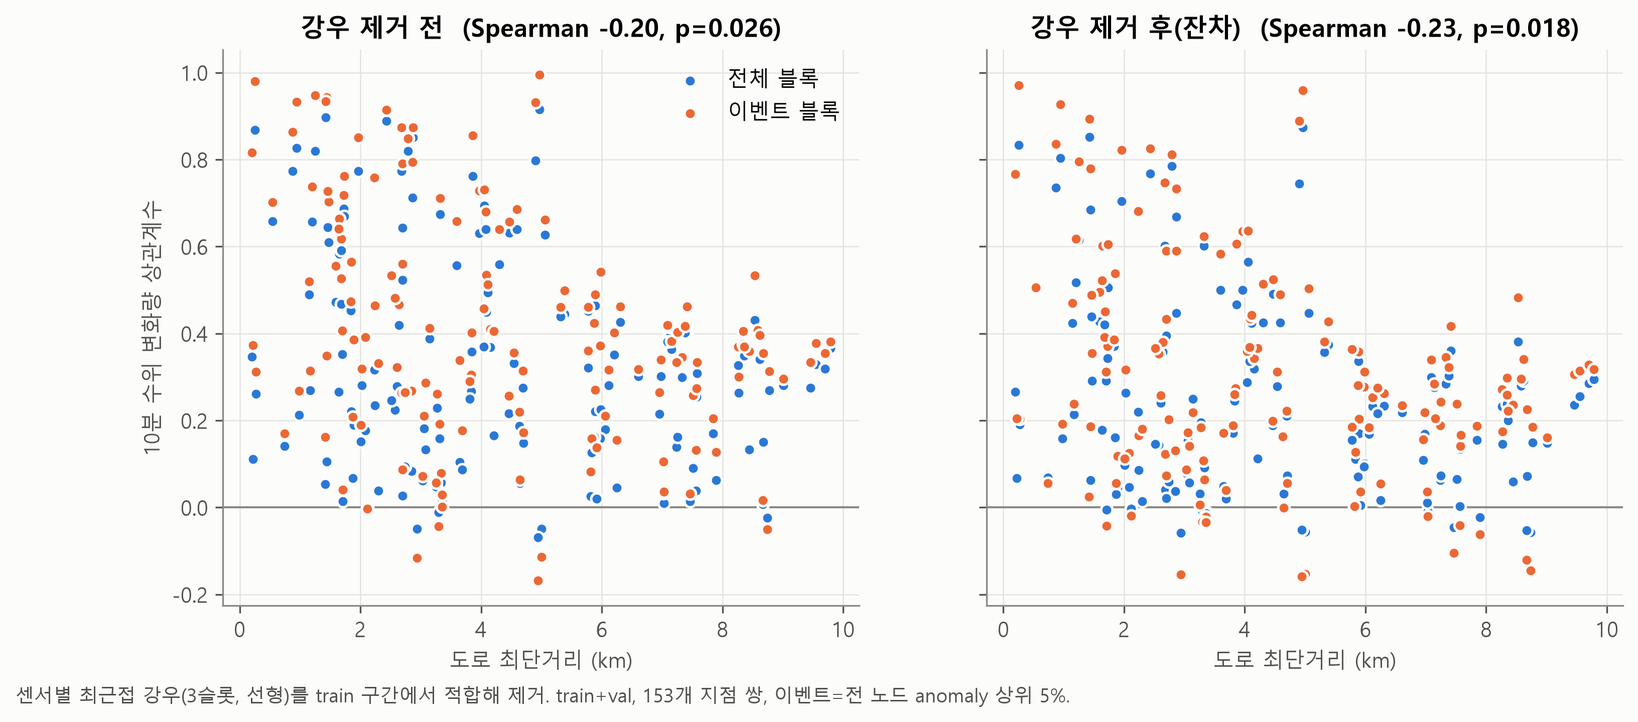
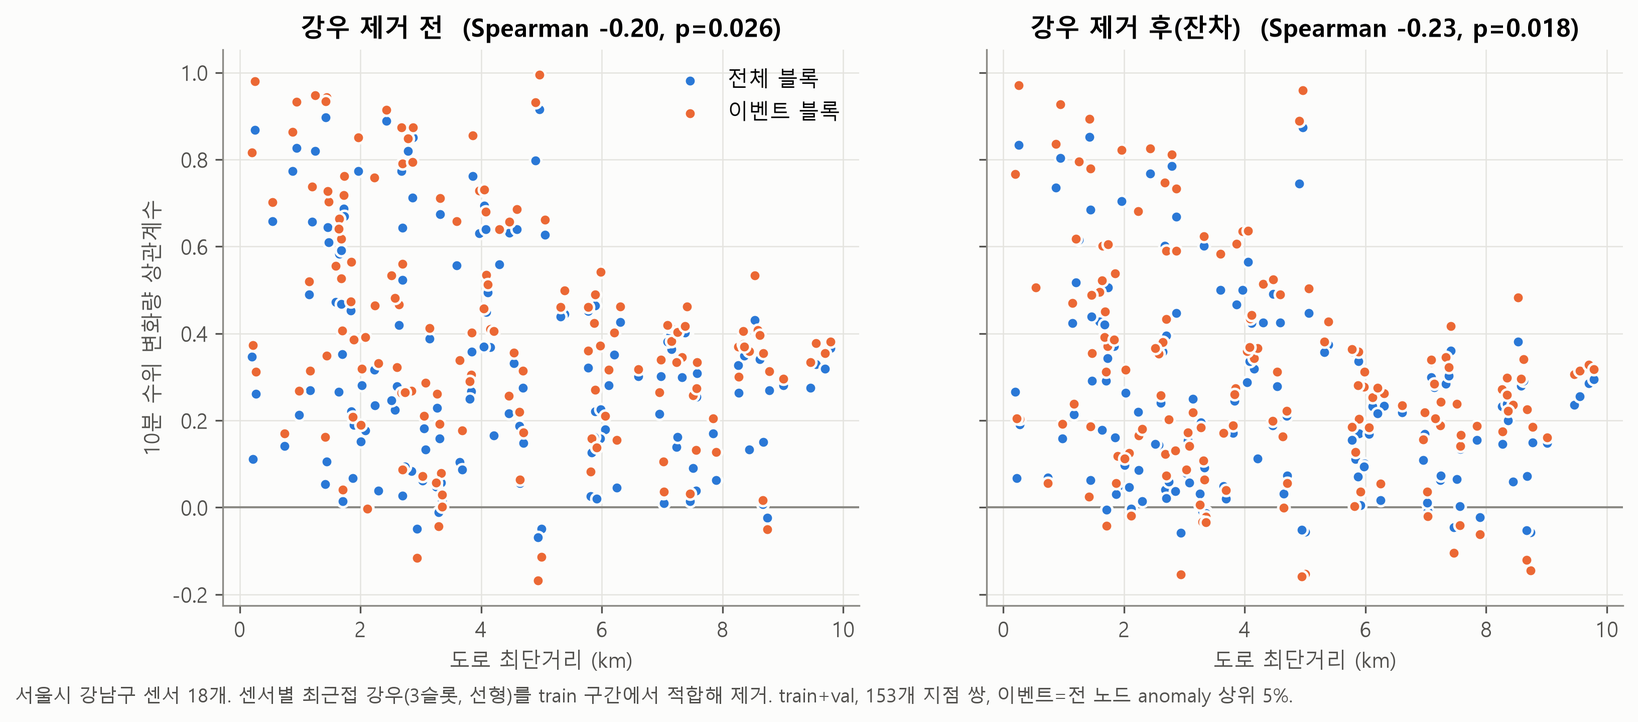
docs: T2 민감도, 범위 표기 정정, 23-0014/0021 사례 그림
- t2_loso_sensitivity: 23-0014 제외, 큰 사건 5·8 제외 민감도(사후, 판정 변경 없음).
  IDW 점추정 최저와 (3) 최고는 유지, 큰 사건 제외 시 IDW 대비 차이는 구분 불가
- fig10: 23-0014/23-0021과 각 최근접 이웃의 이벤트 구간 시계열, 지도상 위치·거리
- README/docs/그림 캡션에 "서울시 강남구 센서 18개" 범위 표기
- docs/08에 민감도 단락과 사례 그림 설명 추가

Changed region(s): [[0.0, 0.9479, 0.7812, 0.9785]]

diff --git a/src/analysis/t2_case_figure.py b/src/analysis/t2_case_figure.py
@@ -1,0 +1,160 @@
+"""사례 그림: 23-0014는 가장 가까운 이웃(23-0015)이 아니라 먼 23-0021과 함께 움직인다 (서울시 강남구 센서 18개 중 4개).
+
+실행: python -m src.analysis.t2_case_figure
+출력: outputs/figures/fig10_t2_case_0014_0021.png
+
+구성: 왼쪽 지도(센서 위치, 도로, 거리·변화량 상관), 오른쪽 이벤트 5(07-16~17)와 이벤트 8(08-13~14)의 시계열(강우 + 4개 센서).
+시계열은 10분 평균 수위를 센서별 훈련 중앙값 기준 상승분으로 바꾼 뒤 이벤트 구간(시작~끝+3시간) 안에서 최소 0, 최대 1로 정규화한 것이다.
+크기 비교가 아니라 오르내리는 시점·모양 비교용이며, 첨두 상승(m)은 범례에 표기한다. train+val 구간만 사용(test 미사용).
+"""
+import matplotlib
+
+matplotlib.use("Agg")
+import matplotlib.pyplot as plt  # noqa: E402
+import numpy as np  # noqa: E402
+import pandas as pd  # noqa: E402
+from matplotlib.collections import LineCollection  # noqa: E402
+
+from src.analysis.spatial_signal import OUT_PAIR, PAIR_CSV  # noqa: E402
+from src.data.assign_rain_gauges import node_blocks  # noqa: E402
+from src.data.clean_nodes import PROCESSED  # noqa: E402
+from src.data.prepare_rainfall import OUT_EVENTS, OUT_NPZ as RAIN_NPZ, TRAIN_END, VAL_END  # noqa: E402
+from src.data.prepare_station_timeseries import OUT_NPZ as SEWER_NPZ  # noqa: E402
+
+TARGETS = {"23-0014": "s2", "23-0021": "s1"}
+NEIGHBORS = {"23-0014": "23-0015", "23-0021": "23-0019"}     # 각 센서의 도로거리 최근접 이웃
+STYLE = {"23-0014": ("s2", "-"), "23-0015": ("s3", "--"), "23-0021": ("s1", "-"), "23-0019": ("s5", "--")}
+EVENTS = [(5, "이벤트 5: 07-16~17 (154.8 mm)"), (8, "이벤트 8: 08-13~14 (115.0 mm)")]
+AFTER_H = 3
+
+
+def normalize_window(x: np.ndarray) -> np.ndarray:
+    """창 안 최소를 0, 최대를 1로. 상수 구간이면 0."""
+    lo, hi = np.nanmin(x), np.nanmax(x)
+    return (x - lo) / (hi - lo) if hi > lo else np.zeros_like(x)
+
+
+def pair_stats() -> dict:
+    pw = pd.read_csv(PAIR_CSV)
+    pc = pd.read_csv(OUT_PAIR)[["node_a", "node_b", "corr_diff_all"]]
+    m = pw.merge(pc, on=["node_a", "node_b"])
+    out = {}
+    for a, b in [("23-0014", "23-0015"), ("23-0014", "23-0021"), ("23-0021", "23-0019")]:
+        r = m[((m.node_a == a) & (m.node_b == b)) | ((m.node_a == b) & (m.node_b == a))].iloc[0]
+        out[(a, b)] = dict(road=float(r.road_dist_m), straight=float(r.straight_dist_m), corr=float(r.corr_diff_all))
+    return out
+
+
+def load_series():
+    z = np.load(SEWER_NPZ, allow_pickle=True)
+    nodes = [str(x) for x in z["node_ids"]]
+    blk = node_blocks(z["values"][:VAL_END], z["mask"][:VAL_END])
+    bt = pd.DatetimeIndex(z["times"][:VAL_END])[: len(blk) * 10][9::10]
+    anom = blk - np.nanmedian(blk[:TRAIN_END // 10], axis=0)
+    zr = np.load(RAIN_NPZ, allow_pickle=True)
+    gn = [i for i, u in enumerate(zr["gauge_gu"]) if u == "강남구"]
+    with np.errstate(all="ignore"):
+        mean_gn = np.nanmean(zr["values"][:, gn], axis=1)
+    rain = pd.Series(mean_gn, index=pd.DatetimeIndex(zr["times"])).reindex(bt)
+    return nodes, anom, bt, rain
+
+
+def draw_map(ax, C, stats):
+    nodes = pd.read_csv(PROCESSED / "gangnam_station_graph_nodes.csv").set_index("node_id")
+    rn = pd.read_csv(PROCESSED / "gangnam_road_nodes.csv").set_index("osmid")
+    ed = pd.read_csv(PROCESSED / "gangnam_road_edges.csv", usecols=["u", "v"])
+    ed = ed[ed.u.isin(rn.index) & ed.v.isin(rn.index)]
+    segs = np.stack([np.stack([rn.loc[ed.u, "x"].to_numpy(), rn.loc[ed.u, "y"].to_numpy()], axis=1),
+                     np.stack([rn.loc[ed.v, "x"].to_numpy(), rn.loc[ed.v, "y"].to_numpy()], axis=1)], axis=1)
+    ax.add_collection(LineCollection(segs, colors="#d6d5d0", linewidths=0.5, zorder=1))
+    hi = list(STYLE)
+    for n, r in nodes.iterrows():
+        if n not in hi:
+            ax.scatter(r.lon, r.lat, s=26, color=C["muted"], edgecolor=C["surface"], linewidth=1, zorder=3)
+            ax.annotate(n[-4:], (r.lon, r.lat), xytext=(4, 3), textcoords="offset points", fontsize=7, color=C["muted"], zorder=3)
+    span_x = nodes.loc[hi, "lon"].max() - nodes.loc[hi, "lon"].min()
+    for a, b in stats:
+        ax.plot([nodes.loc[a, "lon"], nodes.loc[b, "lon"]], [nodes.loc[a, "lat"], nodes.loc[b, "lat"]], color=C["ink2"], lw=1.1,
+                linestyle=(0, (4, 3)), zorder=4)
+        mx, my = (nodes.loc[a, "lon"] + nodes.loc[b, "lon"]) / 2, (nodes.loc[a, "lat"] + nodes.loc[b, "lat"]) / 2
+        s_ = stats[(a, b)]
+        short = s_["straight"] < 300
+        text = (f"{s_['road'] / 1000:.2f} km (직선 {s_['straight'] / 1000:.2f})\n변화량 상관 {s_['corr']:.2f}" if s_["road"] > 1000
+                else f"{s_['road']:.0f} m\n상관 {s_['corr']:.2f}")
+        kw = dict(arrowprops=dict(arrowstyle="-", color=C["muted"], lw=0.8), xytext=(mx + 0.30 * span_x, my), textcoords="data") if short else {}
+        ax.annotate(text, (mx, my), fontsize=9, color=C["ink"], ha="left" if short else "center", va="center", zorder=7,
+                    bbox=dict(boxstyle="round,pad=0.25", fc=C["surface"], ec=C["muted"], lw=0.6), **kw)
+    label_off = {"23-0014": (-8, 7), "23-0015": (-8, -14), "23-0021": (8, -14), "23-0019": (8, 8)}
+    for n, (slot, ls) in STYLE.items():
+        r = nodes.loc[n]
+        ax.scatter(r.lon, r.lat, s=140, color=C[slot], edgecolor=C["surface"], linewidth=2, zorder=6,
+                   marker="o" if n in TARGETS else "s")
+        dx, dy = label_off[n]
+        ax.annotate(n, (r.lon, r.lat), xytext=(dx, dy), textcoords="offset points", fontsize=10, fontweight="bold", color=C["ink"], zorder=8,
+                    ha="right" if dx < 0 else "left", bbox=dict(boxstyle="round,pad=0.15", fc=C["surface"], ec="none", alpha=0.85))
+    pts = nodes.loc[hi]
+    px, py = (pts.lon.max() - pts.lon.min()) * 0.22, (pts.lat.max() - pts.lat.min()) * 0.22
+    ax.set_xlim(pts.lon.min() - px, pts.lon.max() + px)
+    ax.set_ylim(pts.lat.min() - py, pts.lat.max() + py)
+    ax.set_aspect(1 / np.cos(np.radians(37.5)))
+    ax.set_xticks([])
+    ax.set_yticks([])
+    ax.grid(False)
+    ax.set_title("센서 위치와 도로거리", fontsize=11)
+    for sp in ax.spines.values():
+        sp.set_visible(True)
+        sp.set_color(C["muted"])
+
+
+def main() -> None:
+    from src.visualization.make_figures import C, _note, _save
+    stats = pair_stats()
+    nodes, anom, bt, rain = load_series()
+    ev = pd.read_csv(OUT_EVENTS, parse_dates=["start", "end"]).set_index("event_id")
+    fig = plt.figure(figsize=(15, 9.2))
+    gs = fig.add_gridspec(5, 2, width_ratios=[1.12, 1.7], height_ratios=[0.5, 2.0, 0.45, 0.5, 2.0], wspace=0.08, hspace=0.12)
+    draw_map(fig.add_subplot(gs[0:3, 0]), C, stats)
+    peaks = {n: [] for n in STYLE}
+    for k, (eid, title) in enumerate(EVENTS):
+        e = ev.loc[eid]
+        m = (bt >= e.start) & (bt <= e.end + pd.Timedelta(hours=AFTER_H))
+        t = bt[m]
+        r0 = 3 * k
+        ax_r = fig.add_subplot(gs[r0, 1])
+        ax_s = fig.add_subplot(gs[r0 + 1, 1], sharex=ax_r)
+        ax_r.bar(t, rain.to_numpy()[m], width=pd.Timedelta(minutes=9), color=C["muted"], zorder=3)
+        ax_r.set_ylabel("강우\n(mm/10분)", fontsize=8)
+        ax_r.set_title(title, fontsize=11, loc="left")
+        plt.setp(ax_r.get_xticklabels(), visible=False)
+        ax_r.grid(axis="x", visible=False)
+        for n, (slot, ls) in STYLE.items():
+            a_ = anom[m, nodes.index(n)]
+            peaks[n].append(float(np.nanmax(a_)))
+            ax_s.plot(t, normalize_window(a_), color=C[slot], linestyle=ls, lw=2.0, zorder=3 if n in TARGETS else 2)
+        ax_s.set_ylabel("정규화 상승분\n(구간 최소 0, 최대 1)", fontsize=8.5)
+        ax_s.set_ylim(-0.05, 1.08)
+        ax_s.xaxis.set_major_formatter(matplotlib.dates.DateFormatter("%m-%d\n%H시"))
+    ax_l = fig.add_subplot(gs[3:, 0])
+    ax_l.axis("off")
+    from matplotlib.lines import Line2D
+    handles = [Line2D([0], [0], color=C[STYLE[n][0]], linestyle=STYLE[n][1], lw=2.4) for n in STYLE]
+    role = {"23-0014": "대상(건천, 0 m 90%)", "23-0015": "23-0014의 최근접 이웃", "23-0021": "대상", "23-0019": "23-0021의 최근접 이웃"}
+    labels = [f"{n}  {role[n]}   첨두 상승 +{peaks[n][0]:.2f} m / +{peaks[n][1]:.2f} m" for n in STYLE]
+    ax_l.legend(handles, labels, loc="upper left", frameon=False, fontsize=9.5, title="센서 (첨두 상승: 이벤트 5 / 이벤트 8)", title_fontsize=9.5,
+                alignment="left")
+    st = stats
+    lines = ["쌍별 거리와 변화량 상관(5분 변화량, train+val)"]
+    for (a, b), v in st.items():
+        lines.append(f"  {a} ~ {b}: 도로 {v['road']:,.0f} m, 직선 {v['straight']:,.0f} m, 상관 {v['corr']:.2f}")
+    ax_l.text(0.0, 0.34, "\n".join(lines), fontsize=9.5, color=C["ink2"], va="top", ha="left", linespacing=1.6)
+    fig.suptitle("23-0014의 변동은 가장 가까운 이웃(23-0015, 200 m)보다 더 먼 23-0021(직선 1.4 km)과 더 잘 맞는다 (상관 0.83 대 0.22)",
+                 fontsize=13.5, fontweight="bold", y=0.985)
+    _note(fig, "서울시 강남구 센서 18개 중 4개(도로거리 최근접 이웃은 점선: 23-0015, 23-0019). 거리는 도로 최단경로, 지도의 점선은 직선 연결. 강우는 강남구 3개소 평균.\n"
+               "시계열은 10분 평균 수위를 센서별 훈련 중앙값 기준 상승분으로 바꾼 뒤 이벤트 구간(시작~끝+3시간)에서 0~1로 정규화했다(크기가 아니라 시점·모양 비교).\n"
+               "정규화한 모양만 보면 이벤트 8에서는 23-0015도 같은 시점에 첨두가 있고, 차이는 평상시 기저 수위와 변화량 상관에서 크다. 사례 하나이며 인과가 아니다.", y=-0.045)
+    p = _save(fig, "fig10_t2_case_0014_0021.png")
+    print(p)
+
+
+if __name__ == "__main__":
+    main()

diff --git a/src/analysis/t2_loso_sensitivity.py b/src/analysis/t2_loso_sensitivity.py
@@ -1,0 +1,91 @@
+"""T2 LOSO 민감도 (사후 분석, 판정 변경 없음): 23-0014 제외, 큰 사건(5, 8) 제외, 둘 다 제외.
+
+실행: python -m src.analysis.t2_loso_sensitivity   (t2_loso 예측 npz 필요)
+출력: data/processed/gangnam_t2_loso_sensitivity_report.txt
+
+각 시나리오에서 모델별 이벤트 MAE(센서 평균) 점추정과 95% CI, IDW 대비 (4)-(2), (5)-(2) 차이 CI(이벤트 복원추출 2000회, 시드 0),
+모델 순위를 낸다. 사전 판정(10/18 통과)은 바꾸지 않는다. 서울시 강남구 센서 18개(또는 제외 후 17개) 기준이며 타깃 기저선·규모를 안다는
+가정 하의 상대 상승폭 추정이다.
+"""
+import numpy as np
+import pandas as pd
+
+from src.analysis.t2_loso import MODELS, OUT_PRED
+from src.analysis.t2_loso_bootstrap import SHORT, bootstrap, ci, event_error_sums, macro_mae, pass_count
+from src.data.clean_nodes import PROCESSED
+from src.data.prepare_rainfall import OUT_EVENTS
+
+REPORT = PROCESSED / "gangnam_t2_loso_sensitivity_report.txt"
+DROP_SENSOR = "23-0014"
+DROP_EVENTS = (5, 8)
+SHOW = ["mean_others", "idw_p1", "ridge_rain_time", "ridge_rain_time_nbr", "hgb_rain_time_nbr", "hgb_rain_time"]
+
+
+def subset(S, N, ev_ids, nodes, drop_sensor=None, drop_events=()):
+    ev_keep = [i for i, e in enumerate(ev_ids) if e not in drop_events]
+    sen_keep = [j for j, n in enumerate(nodes) if n != drop_sensor]
+    return S[np.ix_(ev_keep, sen_keep)], N[np.ix_(ev_keep, sen_keep)], [ev_ids[i] for i in ev_keep], [nodes[j] for j in sen_keep]
+
+
+def run_scenario(S, N):
+    k = {m: i for i, m in enumerate(MODELS)}
+    point_macro, point_sensor = macro_mae(S, N, np.ones((1, S.shape[0])))
+    point = point_macro[0]
+    boot_macro, boot_sensor = bootstrap(S, N)
+    cis = {m: ci(boot_macro[:, k[m]]) for m in MODELS}
+    d4 = ci(boot_macro[:, k["ridge_rain_time_nbr"]] - boot_macro[:, k["idw_p1"]])
+    d5 = ci(boot_macro[:, k["hgb_rain_time_nbr"]] - boot_macro[:, k["idw_p1"]])
+    rank = sorted(SHOW[:5], key=lambda m: point[k[m]])
+    return dict(point=point, cis=cis, d4=d4, d5=d5, rank=rank, pass_point=int(pass_count(point_sensor)[0]),
+                pass_ci=(int(np.percentile(pass_count(boot_sensor), 2.5)), int(np.percentile(pass_count(boot_sensor), 97.5))),
+                k=k, d4_point=point[k["ridge_rain_time_nbr"]] - point[k["idw_p1"]], d5_point=point[k["hgb_rain_time_nbr"]] - point[k["idw_p1"]])
+
+
+def verdict_text(lo, hi):
+    return "구분 불가(CI가 0 포함)" if lo <= 0 <= hi else ("IDW가 낮음" if lo > 0 else "(4)/(5)가 낮음")
+
+
+def main() -> None:
+    z = np.load(OUT_PRED, allow_pickle=True)
+    bt = pd.DatetimeIndex(z["bt"])
+    pred = {m: z[f"pred_{m}"].astype(float) for m in MODELS}
+    nodes = [str(x) for x in z["nodes"]]
+    S, N, ev_ids = event_error_sums(pred, z["actual_m"].astype(float), bt, pd.read_csv(OUT_EVENTS, parse_dates=["start", "end"]))
+    scen = {
+        "기준(전체 18개 센서, 이벤트 8개)": subset(S, N, ev_ids, nodes),
+        f"{DROP_SENSOR} 제외(센서 17개, 이벤트 8개)": subset(S, N, ev_ids, nodes, drop_sensor=DROP_SENSOR),
+        f"큰 사건 {DROP_EVENTS[0]}, {DROP_EVENTS[1]} 제외(센서 18개, 이벤트 6개)": subset(S, N, ev_ids, nodes, drop_events=DROP_EVENTS),
+        f"둘 다 제외(센서 17개, 이벤트 6개)": subset(S, N, ev_ids, nodes, drop_sensor=DROP_SENSOR, drop_events=DROP_EVENTS),
+    }
+    res = {name: run_scenario(s[0], s[1]) for name, s in scen.items()}
+
+    L = []
+    w = L.append
+    w("[서울시 강남구 센서 18개] T2 LOSO 민감도 (사후 분석, 판정 변경 없음, test 구간 미사용)")
+    w("=" * 78)
+    w("※ 타깃 기저선·규모 기지 가정 하의 상대 상승폭 추정이다(절대수위 추정 아님). 사전 판정(10/18 통과)은 바꾸지 않는다.")
+    w("이벤트 복원추출 2000회(시드 0), 통계 = 센서 평균 이벤트 MAE(m), 95% CI.")
+    for name, r in res.items():
+        S_, N_, ev_, nd_ = scen[name]
+        w("")
+        w(f"[{name}] 이벤트 {ev_}, 센서 {len(nd_)}개")
+        for m in SHOW:
+            lo, hi = r["cis"][m]
+            w(f"  {SHORT[m]:22s} {r['point'][r['k'][m]]:.4f}  [{lo:.4f}, {hi:.4f}]")
+        w(f"  순위(낮은 오차 순, (1)~(5)): " + " < ".join(SHORT[m][:3] for m in r["rank"]))
+        w(f"  (4)-(2): {r['d4_point']:+.4f} [{r['d4'][0]:+.4f}, {r['d4'][1]:+.4f}] → {verdict_text(*r['d4'])}")
+        w(f"  (5)-(2): {r['d5_point']:+.4f} [{r['d5'][0]:+.4f}, {r['d5'][1]:+.4f}] → {verdict_text(*r['d5'])}")
+        w(f"  사전 기준 통과 센서 수(점추정, 참고): {r['pass_point']}개 / {len(nd_)}개 (부트스트랩 95% 구간 {r['pass_ci']})")
+    base_rank = res[next(iter(res))]["rank"]
+    w("")
+    w("순위 유지 여부 (기준 순위와 비교, (1)~(5) 5개 모델)")
+    for name, r in res.items():
+        w(f"  {name}: {'기준과 같음' if r['rank'] == base_rank else '기준과 다름'}  [{' < '.join(SHORT[m][:3] for m in r['rank'])}]")
+    w("")
+    w("주의: 사후 분석이다. 이벤트 6~8개의 부트스트랩이라 분포가 이산적이고 CI가 넓다. 제외는 결과를 본 뒤의 선택이므로 판정에 쓰지 않는다.")
+    REPORT.write_text("\n".join(L) + "\n", encoding="utf-8")
+    print("\n".join(L))
+
+
+if __name__ == "__main__":
+    main()

diff --git a/tests/test_t2_case_figure.py b/tests/test_t2_case_figure.py
@@ -1,0 +1,27 @@
+"""실행: python -m tests.test_t2_case_figure  (pytest로도 실행 가능). 실제 데이터 파일 불필요."""
+import numpy as np
+
+from src.analysis.t2_case_figure import normalize_window
+from src.analysis.t2_loso_sensitivity import subset
+
+
+def test_normalize_window_maps_min_to_zero_and_max_to_one_and_handles_constant_and_nan():
+    x = np.array([2.0, 4.0, np.nan, 6.0])
+    z = normalize_window(x)
+    assert z[0] == 0.0 and z[3] == 1.0 and z[1] == 0.5 and np.isnan(z[2])
+    assert (normalize_window(np.array([3.0, 3.0, 3.0])) == 0.0).all()                # 상수 구간은 0으로 나누지 않는다
+
+
+def test_subset_drops_the_requested_sensor_and_events_only():
+    E, J, M = 4, 3, 2
+    S = np.arange(E * J * M, dtype=float).reshape(E, J, M)
+    N = np.ones((E, J))
+    S2, N2, ev2, nd2 = subset(S, N, [1, 5, 8, 9], ["a", "b", "c"], drop_sensor="b", drop_events=(5, 8))
+    assert S2.shape == (2, 2, M) and ev2 == [1, 9] and nd2 == ["a", "c"]
+    assert np.array_equal(S2[0, :, 0], S[0, [0, 2], 0]) and np.array_equal(S2[1, :, 1], S[3, [0, 2], 1])
+
+
+if __name__ == "__main__":
+    test_normalize_window_maps_min_to_zero_and_max_to_one_and_handles_constant_and_nan()
+    test_subset_drops_the_requested_sensor_and_events_only()
+    print("ok")

diff --git a/src/analysis/spatial_signal.py b/src/analysis/spatial_signal.py
@@ -216,7 +216,7 @@ def build_figures(dist, c_calm, c_event, macro, nodes):
     ax.set_ylabel("5분 수위 변화량 상관계수")
     ax.set_title("센서 간 변동 상관은 도로거리와 함께 줄어드는가")
     ax.legend(frameon=False, loc="upper right")
-    _note(fig, "5분 평균의 변화량 상관, train+val 구간, 153개 지점 쌍.", y=-0.03)
+    _note(fig, "서울시 강남구 센서 18개. 5분 평균의 변화량 상관, train+val 구간, 153개 지점 쌍.", y=-0.03)
     _save(fig, "fig5_distance_correlation.png")
 
     order = ["mean_others", "idw_p1", "idw_p2", "knn3", "ridge_all"]
@@ -234,7 +234,7 @@ def build_figures(dist, c_calm, c_event, macro, nodes):
         for k, v in enumerate(vals):
             ax.text(v + 0.01, k, f"{v:.2f}", va="center", fontsize=9, color=C["ink2"])
     axes[0].invert_yaxis()
-    _note(fig, "val 구간 leave-one-node-out, 노드 평균. 점선=사전 기준(10% 개선), 실선=상수 추정(노드 train 중앙값).", y=-0.03)
+    _note(fig, "서울시 강남구 센서 18개. val 구간 leave-one-node-out, 노드 평균. 점선=사전 기준(10% 개선), 실선=상수 추정(노드 train 중앙값).", y=-0.03)
     _save(fig, "fig6_loo_vs_constant.png")
 
 

diff --git a/src/analysis/t2_loso.py b/src/analysis/t2_loso.py
@@ -302,7 +302,7 @@ def make_figure(df: pd.DataFrame, v: dict):
     ax.set_title(f"이웃 센서를 쓰면 센서 없는 지점의 이벤트 오차가 줄어드는가: {v['n_or']}/{len(d)}개 센서가 10% 이상")
     ax.grid(axis="y", visible=False)
     ax.legend(frameon=False, loc="lower right")
-    _note(fig, "센서 1개를 통째로 제외(LOSO), 타깃 과거값 미사용. 시간순 5폴드 교차검증, train+val의 이벤트 8개. 점선=사전 기준 10%.\n"
+    _note(fig, "서울시 강남구 센서 18개. 센서 1개를 통째로 제외(LOSO), 타깃 과거값 미사용. 시간순 5폴드 교차검증, train+val의 이벤트 8개. 점선=사전 기준 10%.\n"
                "주의: 기준 (3)은 약한 기준선이다. 단순 이웃 평균(1)·IDW(2)도 (4)와 같은 수준이며 학습 모델이 이들보다 낫지는 않다(docs/08).", y=-0.045)
     _save(fig, "fig8_t2_loso_gain.png")
 

diff --git a/src/analysis/t2_loso_bootstrap.py b/src/analysis/t2_loso_bootstrap.py
@@ -116,7 +116,7 @@ def make_figure(point, cis, diffs):
     ax.set_title(t, fontsize=12.5)
     _note(fig, f"막대=점추정, 선=95% CI (평가 이벤트 8개를 2000회 복원추출). IDW 대비 차이 95% CI: (4) {d4[0] * 1000:+.1f}~{d4[1] * 1000:+.1f} mm, "
                f"(5) {d5[0] * 1000:+.1f}~{d5[1] * 1000:+.1f} mm.\n"
-               "센서 1개를 통째로 제외(LOSO), 타깃 과거값 미사용. 이력이 있던 센서의 기저선·규모를 안다는 가정 하의 상대 상승폭 추정이며 절대수위 추정이 아니다.", y=-0.05)
+               "서울시 강남구 센서 18개, 센서 1개를 통째로 제외(LOSO), 타깃 과거값 미사용. 이력이 있던 센서의 기저선·규모를 안다는 가정 하의 상대 상승폭 추정이며 절대수위 추정이 아니다.", y=-0.05)
     return _save(fig, "fig9_t2_loso_event_mae_ci.png")
 
 

diff --git a/src/analysis/spatial_signal_rain_adjusted.py b/src/analysis/spatial_signal_rain_adjusted.py
@@ -133,7 +133,7 @@ def main() -> None:
         ax.set_xlabel("도로 최단거리 (km)")
     axes[0].set_ylabel("10분 수위 변화량 상관계수")
     axes[0].legend(frameon=False, loc="upper right")
-    _note(fig, "센서별 최근접 강우(3슬롯, 선형)를 train 구간에서 적합해 제거. train+val, 153개 지점 쌍, 이벤트=전 노드 anomaly 상위 5%.", y=-0.03)
+    _note(fig, "서울시 강남구 센서 18개. 센서별 최근접 강우(3슬롯, 선형)를 train 구간에서 적합해 제거. train+val, 153개 지점 쌍, 이벤트=전 노드 anomaly 상위 5%.", y=-0.03)
     _save(fig, "fig7_rain_adjusted_correlation.png")
 
     L = []

diff --git a/docs/08_t2_loso_diagnosis.md b/docs/08_t2_loso_diagnosis.md
@@ -1,5 +1,7 @@
 # 08. T2 LOSO 진단: 일주기 제거 재진단과 센서 하나를 뺀 추정
 
+범위: **서울시 강남구 센서 18개**(2025-06-01~08-31).
+
 작성: 2026-10-18. **GNN 학습·GNN 준비 단계가 아니다.** 모든 분석은 train+val 구간만 사용했고 test 구간(2025-08-18~)은 읽지 않았다. 판정 규칙은 두 실험 모두 결과를 보기 전에 코드 docstring에 고정했다.
 
 - 0번: `python -m src.analysis.spatial_signal_profile_adjusted` → `gangnam_spatial_signal_profile_adjusted_report.txt`
@@ -7,6 +9,8 @@
 - 누수 방지 테스트: `python -m tests.test_t2_loso`
 - 이벤트 부트스트랩: `python -m src.analysis.t2_loso_bootstrap` → `gangnam_t2_loso_bootstrap_{ci.csv,report.txt}`, **`fig9_t2_loso_event_mae_ci.png`(발표용 메인 그림)**
 - 이웃이 해가 된 센서 정리: `python -m src.analysis.t2_harm_sensors` → `gangnam_t2_harm_sensors{.csv,_report.txt}`
+- 민감도(사후): `python -m src.analysis.t2_loso_sensitivity` → `gangnam_t2_loso_sensitivity_report.txt`
+- 사례 그림: `python -m src.analysis.t2_case_figure` → `fig10_t2_case_0014_0021.png`(23-0014와 23-0021)
 
 > **범위 명시: 현재 T2 검증은 타깃의 기저선·규모를 알고 있다는 가정 하의 상대 상승폭 추정이며, 절대수위 추정이 아니다.** 정답 'R = (수준 − 요일×시 평균 프로파일) / 규모'를 만들려면 타깃의 훈련 구간 데이터가 필요하다. 이는 정답을 정의하는 데만 쓰이고 모델 입력에는 없지만, 이력이 전혀 없는 지점(기저선도 모르는 지점)에는 이 검증이 적용되지 않는다. 이력 없는 지점의 절대수위를 추정하려면 기저선을 추정하는 단계가 따로 필요하며, 이는 아직 시도하지 않았다.
 
@@ -180,6 +184,10 @@
 - 사전 기준 통과 센서 수: 점추정 10개, 부트스트랩 중앙값 10개, **95% 구간 [8, 13], P(≥6개) = 100%.** 이벤트 표본 변동에도 "6개 이상"은 흔들리지 않는다.
 - 이벤트 하나씩 제외: event 1·2·7 제외 시 10개, event 3~6 제외 시 9개, event 8 제외 시 12개. 어느 이벤트를 빼도 6개를 크게 웃돈다.
 
+### 민감도 (사후 분석, 판정 변경 없음)
+
+**23-0014를 제외한 17개 센서**에서는 이벤트 MAE가 (1) 0.0268, (2) IDW 0.0252, (3) 0.0301, (4) 0.0266, (5) 0.0268이고 순위는 기준((2) < (4) < (1) < (5) < (3))과 같으며, IDW 대비 차이는 (4) +0.0014 [+0.0005, +0.0024], (5) +0.0016 [+0.0003, +0.0026]으로 CI가 0을 포함하지 않아 "IDW가 낮다"는 방향이 유지되고 오히려 조금 커진다. **큰 사건 5, 8을 제외한 이벤트 6개**에서는 오차 수준이 낮아지고((1) 0.0206, IDW 0.0201, (3) 0.0241, (4) 0.0212, (5) 0.0212) IDW가 가장 낮고 (3)이 가장 높은 것은 유지되지만, (1)이 (4)·(5)보다 낮아져 중간 순위가 바뀌고((2) < (1) < (4) < (5) < (3)) IDW 대비 차이 CI가 (4) [-0.0000, +0.0025], (5) [-0.0003, +0.0021]로 0을 포함해 **"통계적으로 구분 불가"**가 된다. 두 가지를 모두 제외하면 (4)−(2) +0.0014 [+0.0002, +0.0029]는 IDW가 낮고 (5)−(2) +0.0015 [-0.0001, +0.0028]은 구분 불가다. 따라서 "(2) IDW가 어느 시나리오에서도 점추정 최저, (3)이 최고"는 유지되지만, "(4)·(5)가 IDW보다 통계적으로 근소하게 나쁘다"는 표현은 큰 사건 5·8(IDW 총오차의 50%)에 의존하므로 강하게 쓰지 않는다. 사전 기준 통과 센서 수는 23-0014 제외 시 10/17, 큰 사건 제외 시 13/18, 둘 다 제외 시 13/17이어서 판정은 바뀌지 않는다(전체 수치: `gangnam_t2_loso_sensitivity_report.txt`). 제외는 결과를 본 뒤의 선택이므로 판정에 쓰지 않는다.
+
 ### 이벤트별 평균 MAE (m)와 큰 사건 비중
 
 | event | 블록수(센서 합) | (1) | (2) IDW | (3) | (4) | (5) | IDW 총오차 비중 |
@@ -253,6 +261,8 @@
 | (4) / (5) 개선율 vs (3) | -6.3% / +6.2% | -1.8% / -14.0% | -13.2% / +4.2% | -12.4% / -24.0% | +12.3% / +12.7% |
 
 (표 마지막 열은 4개 센서를 뺀 14개의 중앙값. 4개 센서 중앙값은 개선율 -9.4% / -4.9%.)
+
+사례 그림: `outputs/figures/fig10_t2_case_0014_0021.png`(두 센서와 각 최근접 이웃의 이벤트 5·8 시계열, 지도상 위치와 거리). 23-0014는 최근접 이웃 23-0015(200 m, 상관 0.22)보다 직선 1.39 km·도로 2.43 km 떨어진 23-0021(상관 0.83)과 평상시 기저·감수 모양이 더 잘 맞는다. 단 정규화한 모양만 보면 이벤트 8에서는 23-0015도 같은 시점에 첨두가 있다. 사례 하나이며 인과가 아니다.
 
 ### 사실로 확인되는 점
 1. **결측률은 이 4개와 나머지가 같다**(모두 0.07%). 결측은 원인이 아니다.

diff --git a/docs/03_midterm_with_dataset.md b/docs/03_midterm_with_dataset.md
@@ -9,7 +9,7 @@
 
 ## 1. 발표의 논지 (한 문장)
 
-> 서울시 하수관로 수위 센서는 일부 지점에만 있으므로, 센서 없는 지점을 추정하려면 먼저 "센서 간에 공간적 정보가 존재하는가"를 확인해야 한다. 우리는 강남구 18개 센서의 3개월 1분 데이터를 검증 가능한 형태로 구축했고, 기준 모델과 데이터 한계를 정량화했다. GNN은 이 기준선을 넘는지 검증하는 다음 단계이다.
+> 서울시 하수관로 수위 센서는 일부 지점에만 있으므로, 센서 없는 지점을 추정하려면 먼저 "센서 간에 공간적 정보가 존재하는가"를 확인해야 한다. 우리는 서울시 강남구 센서 18개의 3개월 1분 데이터를 검증 가능한 형태로 구축했고, 기준 모델과 데이터 한계를 정량화했다. GNN은 이 기준선을 넘는지 검증하는 다음 단계이다.
 
 ## 2. 슬라이드 구성 (10분, 12장 이내)
 

diff --git a/docs/02_dataset_design.md b/docs/02_dataset_design.md
@@ -1,6 +1,6 @@
 # 02. 데이터셋 구축: 고려사항과 설계
 
-대상: 서울 강남구 하수관로 수위 센서 18개 (대상 지점 20개 중 좌표 확보분), 2025-06-01 ~ 2025-08-31, 1분 간격.
+대상: 서울시 강남구 센서 18개(하수관로 수위, 대상 지점 20개 중 좌표 확보분), 2025-06-01 ~ 2025-08-31, 1분 간격.
 각 항목은 **[확정]** 이미 구현·결정됨, **[미결정]** 결정 필요, **[위험]** 잘못되면 결론이 무효가 되는 지점으로 표시한다.
 
 ---

diff --git a/docs/07_rain_effect_results.md b/docs/07_rain_effect_results.md
@@ -1,5 +1,7 @@
 # 07. 강우의 효과: T1 예측 baseline과 공간 진단 2차
 
+범위: **서울시 강남구 센서 18개**(2025-06-01~08-31).
+
 작성: 2026-10-18. 모두 test 구간은 평가에만 썼고 모델 선택·진단 설계에는 쓰지 않았다. 판정 규칙은 두 실험 모두 **결과를 보기 전에** 코드 상단 docstring에 적었고 바꾸지 않았다.
 
 - 실험 1: `python -m src.models.rain_baselines` → `gangnam_rain_baseline_{metrics.csv,report.txt}`
